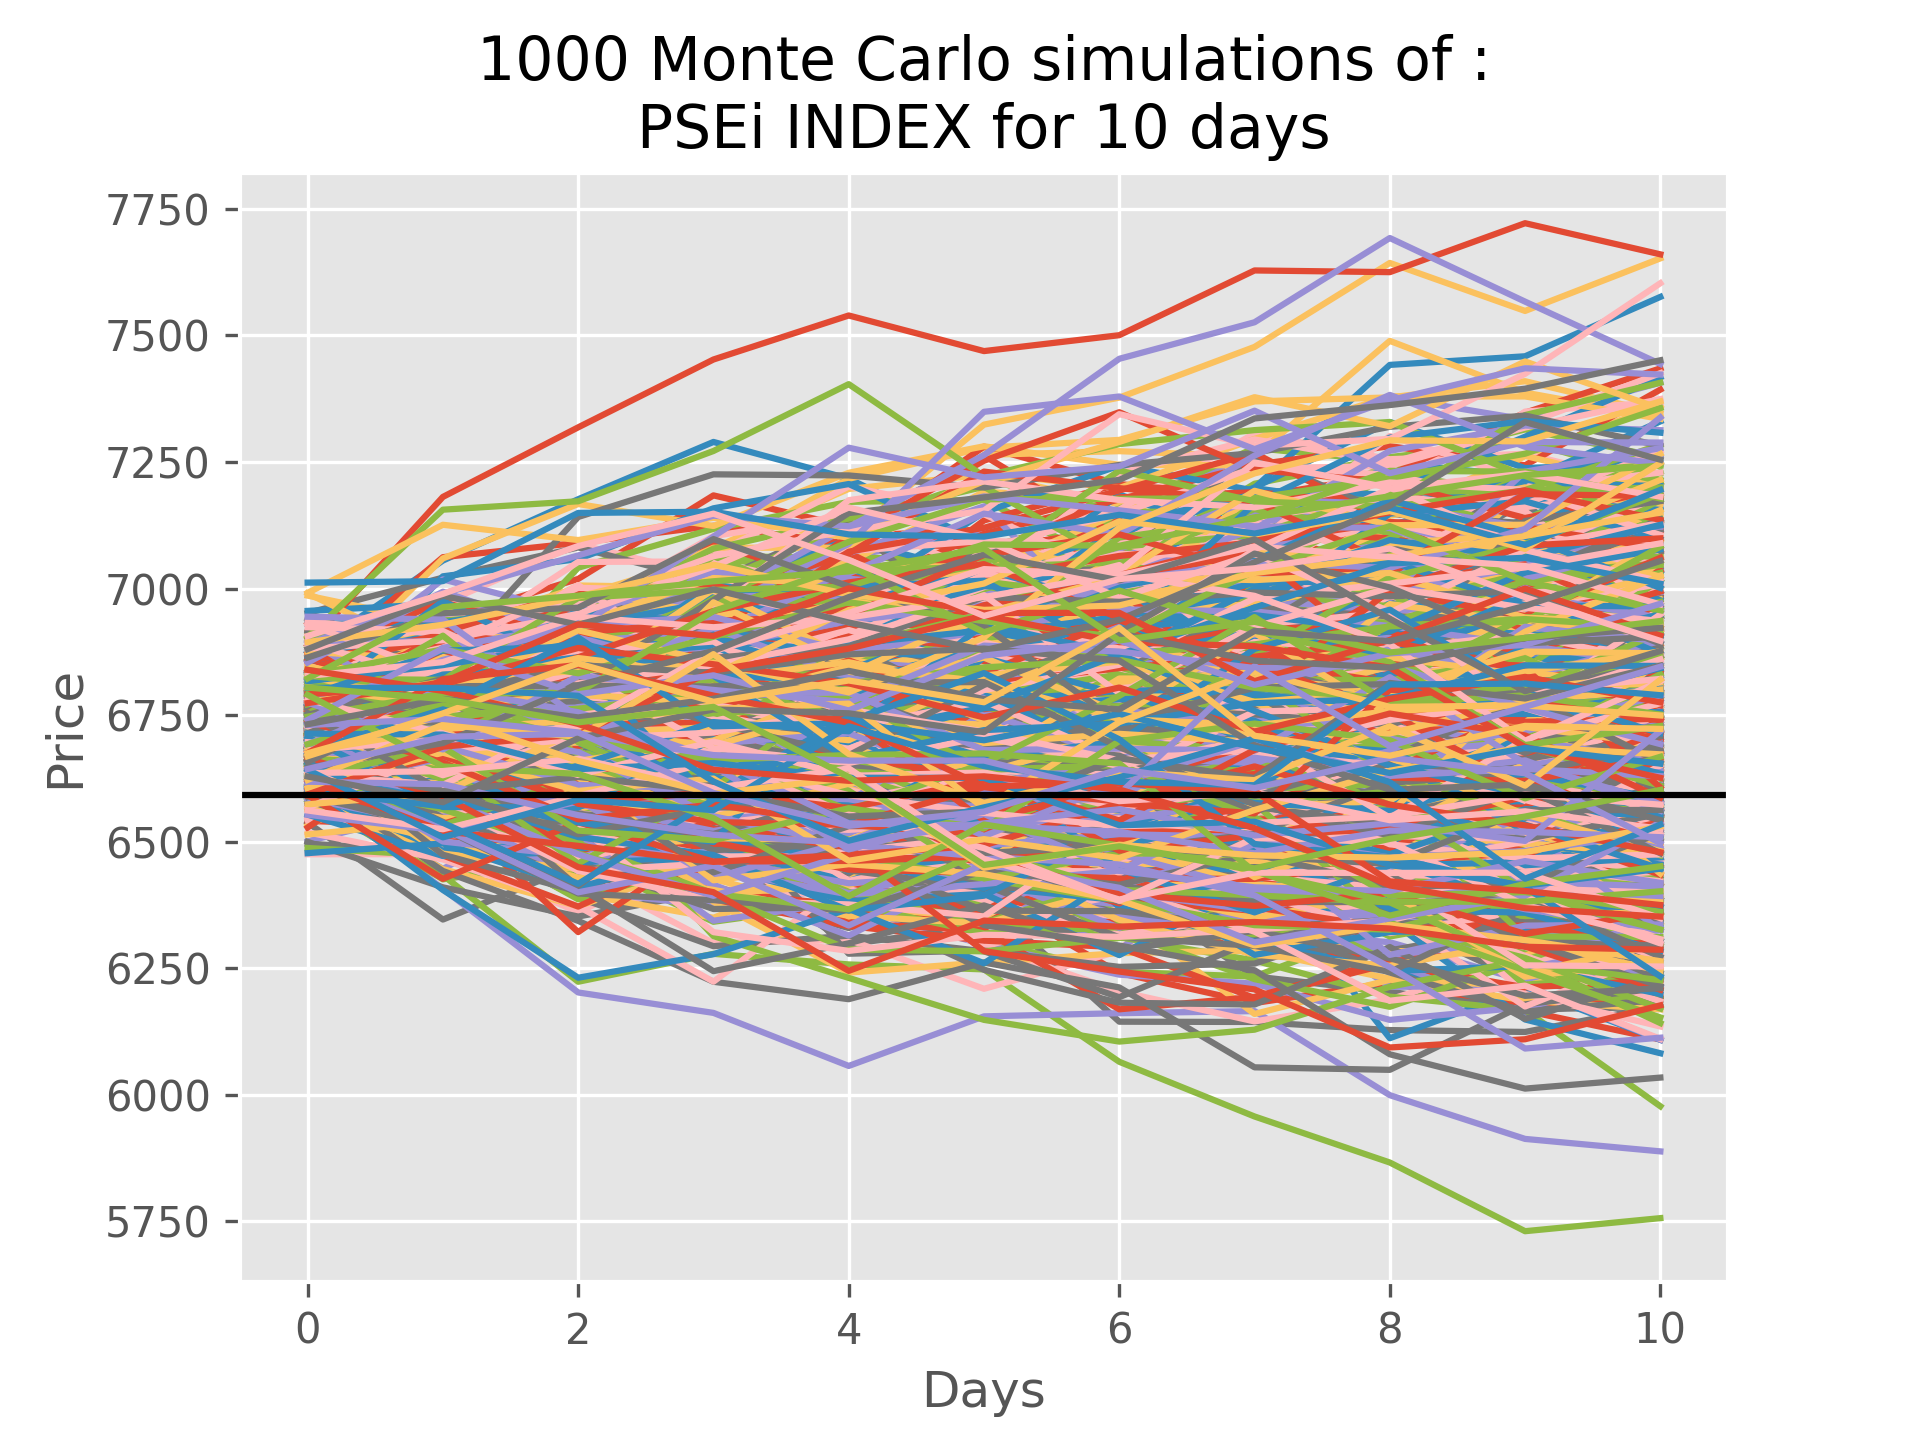
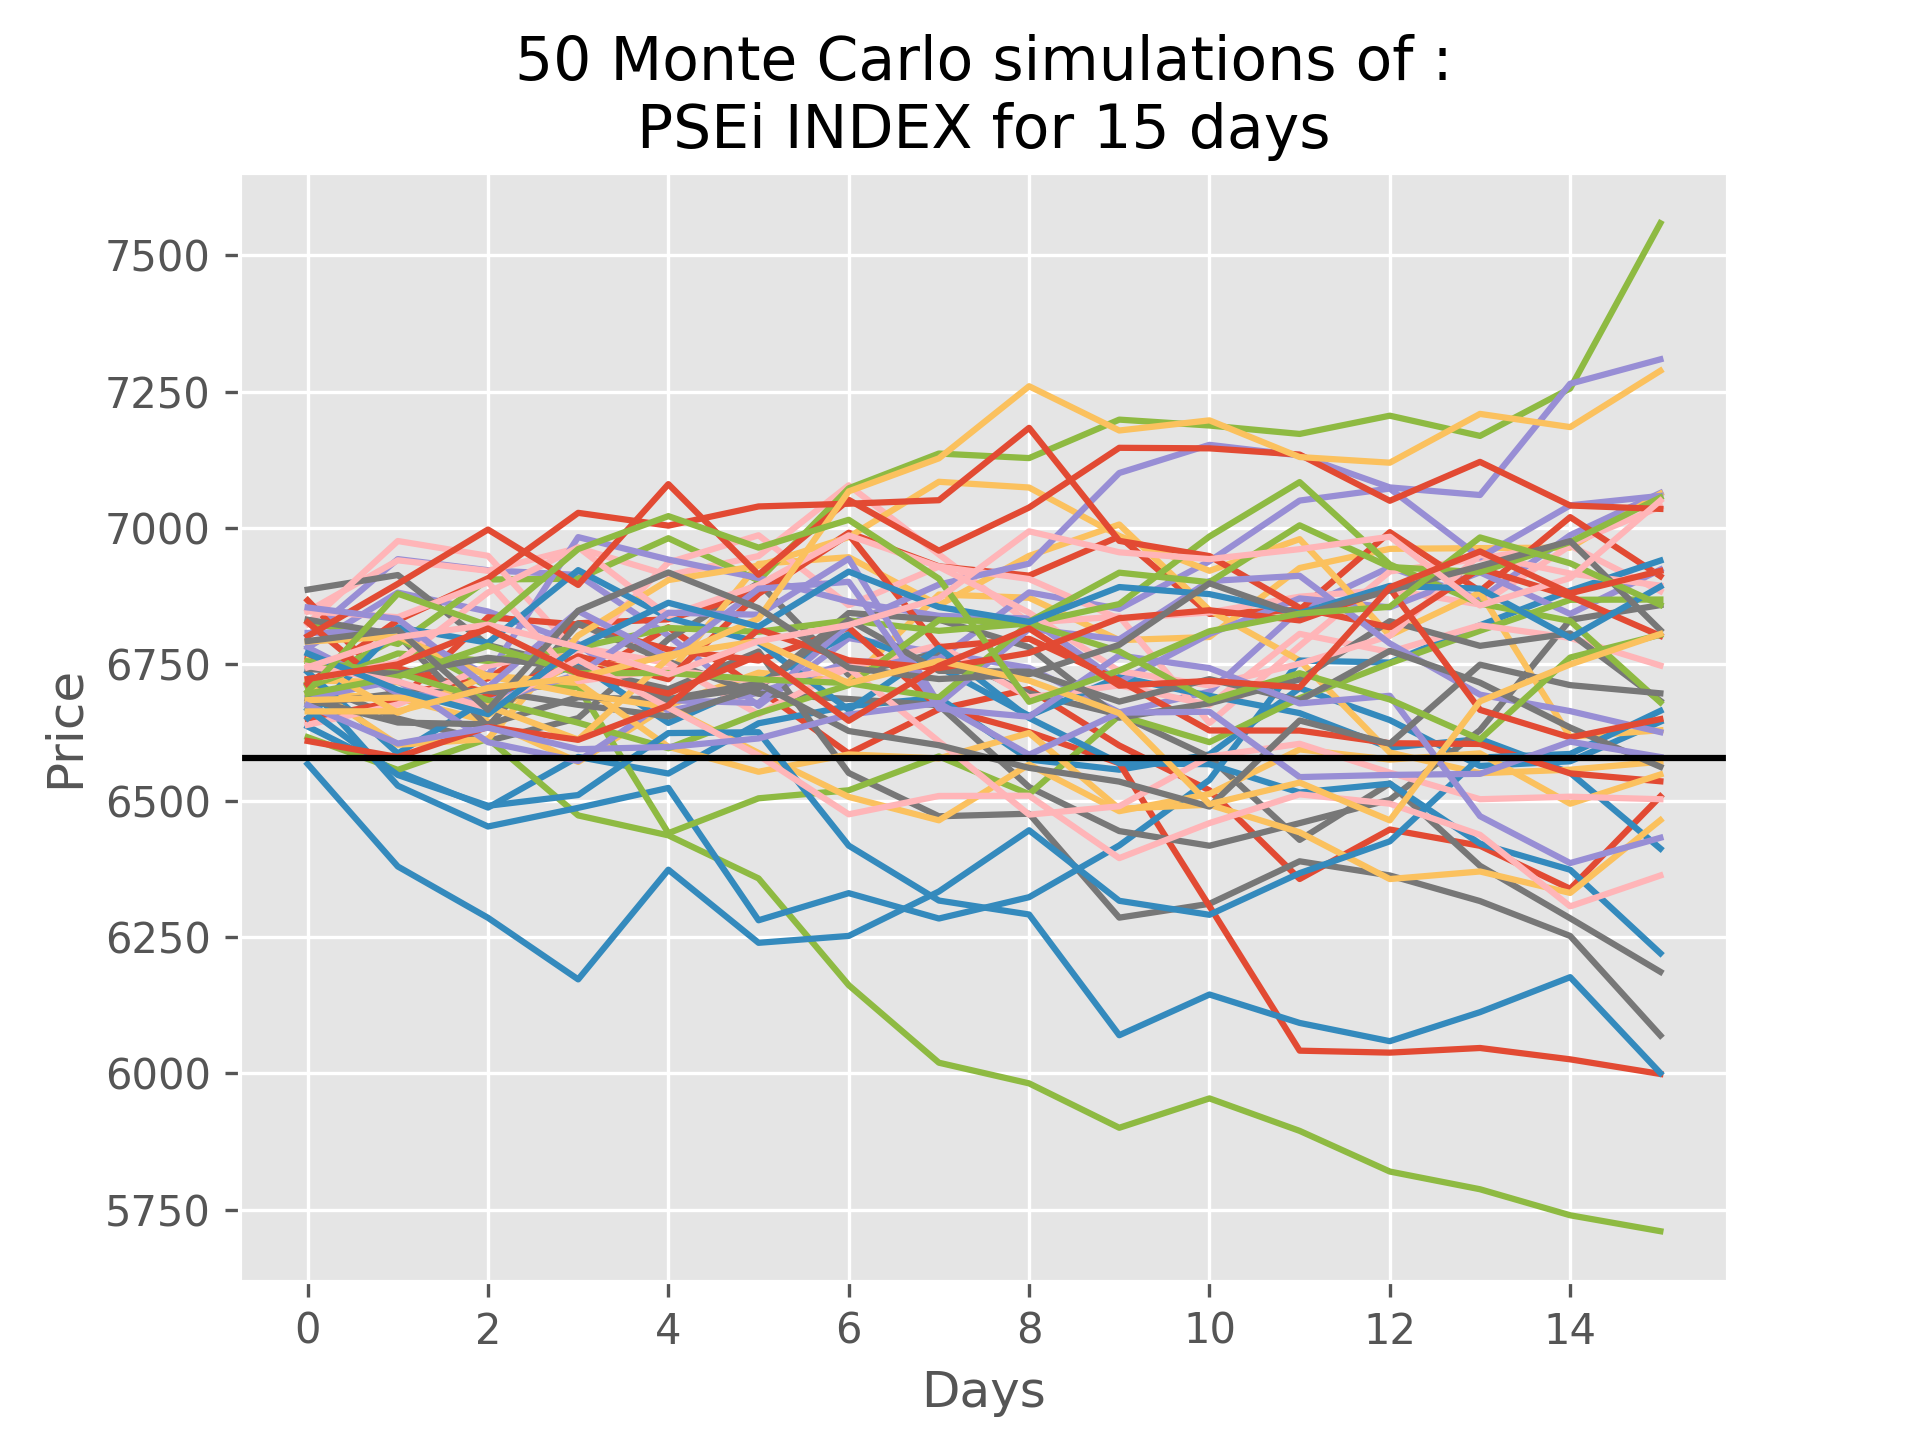
major change

diff --git a/stockApp/templates/stockApp/includes/stocks-forecasting.html b/stockApp/templates/stockApp/includes/stocks-forecasting.html
@@ -2,33 +2,52 @@
 <section id="stocks-forecasting" class="border-top border-bottom border-2 border-secondary border-opacity-25 py-4">
   <h1 class="fs-3">Stocks Forecasting</h1>
   <h2 class="fs-6 text-secondary">Monte Carlo Simulation Algorithm</h2>
+  {% if messages %}
+      <div>
+        {% for message in messages  %}
+            {% include 'stockApp/includes/messages.html' %}
+        {% endfor %}
+      </div>  
+  {% endif %}
 
   <div class="stocks-buttons row">
     <form action="{% url 'stockApp:update-stock' %}" method="POST">
       {% csrf_token %}
-      <div class="row">
+      <div class="row gap-0">
         <div class="col">
           <input
-            type="text"
+            type="number"
             class="form-control"
             placeholder="No. of Days"
-            aria-label="First name"
+            name="simulation_days"
             required
+            min="1"
+            max="10001"
           />
         </div>
         <div class="col">
           <input
-            type="text"
+            type="number"
             class="form-control"
             placeholder="No. of Simulations"
-            aria-label="Last name"
+            name="simulation_number"
             required
+            min="1"
+       
+          />
+        </div>
+        <div class="col">
+          <input
+            type="number"
+            class="form-control"
+            placeholder="Investment in Peso"
+            name="investment"
           />
         </div>
       </div>
-      <div class="col mt-2 d-grid">
+      <div class="col mt-3 d-grid">
         <button type="submit" name="update-btn" class="btn btn-dark">
-          Update
+          Start Simulation
         </button>
       </div>
     </form>

diff --git a/stockApp/templates/stockApp/home.html b/stockApp/templates/stockApp/home.html
@@ -7,6 +7,7 @@
     <!-- here goes the Hero Section -->
     {% include 'stockApp/includes/hero-section.html' %}
 
+
     <!-- here goes the Stocks Forecasting Section -->
     {% include 'stockApp/includes/stocks-forecasting.html' %}
 </div>

diff --git a/stockApp/templates/stockApp/includes/messages.html b/stockApp/templates/stockApp/includes/messages.html
@@ -1,0 +1,5 @@
+{% if message.tags == 'error' %}
+    <div class="alert alert-danger" role="alert">
+    {{ message }}
+    </div>
+{% endif %}

diff --git a/stockApp/views.py b/stockApp/views.py
@@ -1,4 +1,5 @@
 from django.shortcuts import render, redirect
+from django.contrib import messages
 # imports for stocks forecasting and graph plotting
 import yfinance as yf
 import datetime as dt
@@ -19,7 +20,7 @@ def home(request):
     prev_lastquote = data['Close'].iloc[-2]
     degree = "(" + str(round(((last_quote - prev_lastquote) / abs(last_quote)) * 100, 2)) + "%)"
     change_val = round(last_quote - prev_lastquote, 2)
-    change_pct= str(round(last_quote-prev_lastquote,2))+degree
+    change_pct = str(round(last_quote-prev_lastquote,2))+degree
     context = {
         'current_price': round(last_quote, 3),
         'change_pct': change_pct,
@@ -30,115 +31,123 @@ def home(request):
 
 
 def update_stock(request):
-    # change this to change the data source of stock from yahoo finance
-    SOURCE = 'PSEI.PS'
-    stock_ticker = yf.Ticker('PSEI.PS')
-    stock_company = stock_ticker.info['shortName']
+    # this accepts the form fields
+    simulation_days = int(request.POST['simulation_days'])
+    simulation_number = int(request.POST['simulation_number'])
 
-    # code to get the data from yahoo finance using yfinance API, supplying the stock name, start date, and end date
-    # datetime(year,month,day)
-    start = dt.datetime(2021, 5, 19)
-    end = dt.datetime(2022, 5, 19)
-    stock_data = yf.download(SOURCE, start, end)
+    if simulation_days == 0 or simulation_number == 0:
+        messages.error(request, f'Invalid number of Days or number of Simulation')
+        return redirect('stockApp:home')
+    else:
+        # change this to change the data source of stock from yahoo finance
+        SOURCE = 'PSEI.PS'
+        stock_ticker = yf.Ticker('PSEI.PS')
+        stock_company = stock_ticker.info['shortName']
 
-    # we get stock returns by comparing the percent change of current day price to the previous day price of..
-    # .. adjusted close prices
-    stock_returns = stock_data['Adj Close'].pct_change()
-    # standard deviation of the stock returns
-    daily_volatility = stock_returns.std()
+        # code to get the data from yahoo finance using yfinance API, supplying the stock name, start date, and end date
+        # datetime(year,month,day)
+        start = dt.datetime(2021, 5, 19)
+        end = dt.datetime(2022, 5, 19)
+        stock_data = yf.download(SOURCE, start, end)
 
-    # setting of initial variables needed
-    trading_days = 10
-    last_prices = []  # last price array
-    last_price = stock_data['Adj Close'][-1]  # set initial value of the last price
+        # we get stock returns by comparing the percent change of current day price to the previous day price of..
+        # .. adjusted close prices
+        stock_returns = stock_data['Adj Close'].pct_change()
+        # standard deviation of the stock returns
+        daily_volatility = stock_returns.std()
 
-    TOTAL_SIMULATIONS = 1000
-    # df = pd.DataFrame()
-    temp_frames = []
-    for x in range(TOTAL_SIMULATIONS):
-        counter = 0
-        prices = []
-        # we get the simulated price by drawing random samples from a normal distribution using numpy where..
-        # .. mean =0 , standard deviation = daily_volatility, ..
-        # .. and multiplying the sample with the last price on the list.
-        price = last_price * (1 + np.random.normal(0, daily_volatility))
-        prices.append(price)
+        # setting of initial variables needed
+        trading_days = simulation_days
+        last_prices = []  # last price array
+        last_price = stock_data['Adj Close'][-1]  # set initial value of the last price
 
-        for y in range(trading_days):
-            if counter > trading_days - 1:
-                break
-            # this code also gets the simulated price using the same method but multiplies the random normal
-            # distribution sample with the elements on the prices array
-            price = prices[counter] * (1 + np.random.normal(0, daily_volatility))
+        TOTAL_SIMULATIONS = simulation_number
+        # df = pd.DataFrame()
+        temp_frames = []
+        for x in range(TOTAL_SIMULATIONS):
+            counter = 0
+            prices = []
+            # we get the simulated price by drawing random samples from a normal distribution using numpy where..
+            # .. mean =0 , standard deviation = daily_volatility, ..
+            # .. and multiplying the sample with the last price on the list.
+            price = last_price * (1 + np.random.normal(0, daily_volatility))
             prices.append(price)
-            counter += 1
 
-        # df[x] = prices
-        temp_frame = pd.DataFrame()
-        temp_frame[x] = prices
-        temp_frames.append(temp_frame)
-        last_prices.append(prices[-1])
-    df = pd.concat(temp_frames,axis=1)
-    # this is used for setting the plot
-    plt.style.use('ggplot')
-    title = str(TOTAL_SIMULATIONS) + " Monte Carlo simulations of :\n" + str(stock_company) + " for " + str(
-        trading_days) + " days"
-    fig1, ax1 = plt.subplots()
-    ax1.plot(df)
-    ax1.set_title(title)
-    ax1.set_ylabel("Price")
-    ax1.set_xlabel("Days")
+            for y in range(trading_days):
+                if counter > trading_days - 1:
+                    break
+                # this code also gets the simulated price using the same method but multiplies the random normal
+                # distribution sample with the elements on the prices array
+                price = prices[counter] * (1 + np.random.normal(0, daily_volatility))
+                prices.append(price)
+                counter += 1
+
+            # df[x] = prices
+            temp_frame = pd.DataFrame()
+            temp_frame[x] = prices
+            temp_frames.append(temp_frame)
+            last_prices.append(prices[-1])
+        df = pd.concat(temp_frames,axis=1)
+        # this is used for setting the plot
+        plt.style.use('ggplot')
+        title = str(TOTAL_SIMULATIONS) + " Monte Carlo simulations of :\n" + str(stock_company) + " for " + str(
+            trading_days) + " days"
+        fig1, ax1 = plt.subplots()
+        ax1.plot(df)
+        ax1.set_title(title)
+        ax1.set_ylabel("Price")
+        ax1.set_xlabel("Days")
 
 
-    tickers = [SOURCE]
-    for ticker in tickers:
-        ticker_yahoo = yf.Ticker(ticker)
-        data = ticker_yahoo.history()
-        last_quote = data['Close'].iloc[-1]
+        tickers = [SOURCE]
+        for ticker in tickers:
+            ticker_yahoo = yf.Ticker(ticker)
+            data = ticker_yahoo.history()
+            last_quote = data['Close'].iloc[-1]
 
-    plt.axhline(y=last_quote, color='black', linestyle='-')
-    # fig = plt.figure()
-    # title = str(TOTAL_SIMULATIONS) + " Monte Carlo simulations of :\n" + str(stock_company) + " for " + str(
-    #     trading_days) + " days"
-    # fig.suptitle(title)
-    # fig.set_figwidth(8)
-    # fig.set_figheight(5)
-    # plt.plot(df)
-    # plt.xlabel('Days')
-    # plt.ylabel('Price')
-    # filename = str(TOTAL_SIMULATIONS) + "-" + str(trading_days) + ".png"
-    current_directory = "./static/images/graph"
-    filename = "forecast_graph.png"
-    plt.savefig(os.path.join(current_directory, filename), dpi=300)
-    # plt.show()
+        plt.axhline(y=last_quote, color='black', linestyle='-')
+        # fig = plt.figure()
+        # title = str(TOTAL_SIMULATIONS) + " Monte Carlo simulations of :\n" + str(stock_company) + " for " + str(
+        #     trading_days) + " days"
+        # fig.suptitle(title)
+        # fig.set_figwidth(8)
+        # fig.set_figheight(5)
+        # plt.plot(df)
+        # plt.xlabel('Days')
+        # plt.ylabel('Price')
+        # filename = str(TOTAL_SIMULATIONS) + "-" + str(trading_days) + ".png"
+        current_directory = "./static/images/graph"
+        filename = "forecast_graph.png"
+        plt.savefig(os.path.join(current_directory, filename), dpi=300)
+        # plt.show()
 
-    expected_price = np.mean(last_prices)
-    quantile_five = np.percentile(last_prices, 5)
-    quantile_ninetyfive = np.percentile(last_prices, 95)
+        expected_price = np.mean(last_prices)
+        quantile_five = np.percentile(last_prices, 5)
+        quantile_ninetyfive = np.percentile(last_prices, 95)
 
-    print("Current price: ", last_quote)
-    print("Expected price: ", expected_price)
-    print("Quantile (5%): ", quantile_five)
-    print("Quantile (95%): ", quantile_ninetyfive)
+        print("Current price: ", last_quote)
+        print("Expected price: ", expected_price)
+        print("Quantile (5%): ", quantile_five)
+        print("Quantile (95%): ", quantile_ninetyfive)
 
-    # this is to plot the second graph (histogram)
+        # this is to plot the second graph (histogram)
 
-    # fig2, ax2 = plt.subplots()
-    # ax2.hist(last_prices, bins=100, color='#6397ff')
-    # ax2.set_title(title)
-    # ax2.set_ylabel("Price")
-    # ax2.set_xlabel("Days")
-    # plt.axvline(np.percentile(last_prices, 5), color='r', linestyle='dashed', linewidth=2)
-    # plt.axvline(np.percentile(last_prices, 95), color='r', linestyle='dashed', linewidth=2)
-    #
-    # filename = "histogram.png"
-    # plt.savefig(os.path.join(current_directory, filename), dpi=300)
-    # plt.show()
+        # fig2, ax2 = plt.subplots()
+        # ax2.hist(last_prices, bins=100, color='#6397ff')
+        # ax2.set_title(title)
+        # ax2.set_ylabel("Price")
+        # ax2.set_xlabel("Days")
+        # plt.axvline(np.percentile(last_prices, 5), color='r', linestyle='dashed', linewidth=2)
+        # plt.axvline(np.percentile(last_prices, 95), color='r', linestyle='dashed', linewidth=2)
+        #
+        # filename = "histogram.png"
+        # plt.savefig(os.path.join(current_directory, filename), dpi=300)
+        # plt.show()
 
-    # this is the session that will save the data form this function
-    # del request.session['current_price']
-    # request.session['current_price'] = round(last_quote, 2)
+        # this is the session that will save the data form this function
+        # del request.session['current_price']
+        # request.session['current_price'] = round(last_quote, 2)
 
-    # in this return, redirect the users to the home template
-    return redirect('stockApp:home')
+        # in this return, redirect the users to the home template
+        return redirect('stockApp:home')
     
